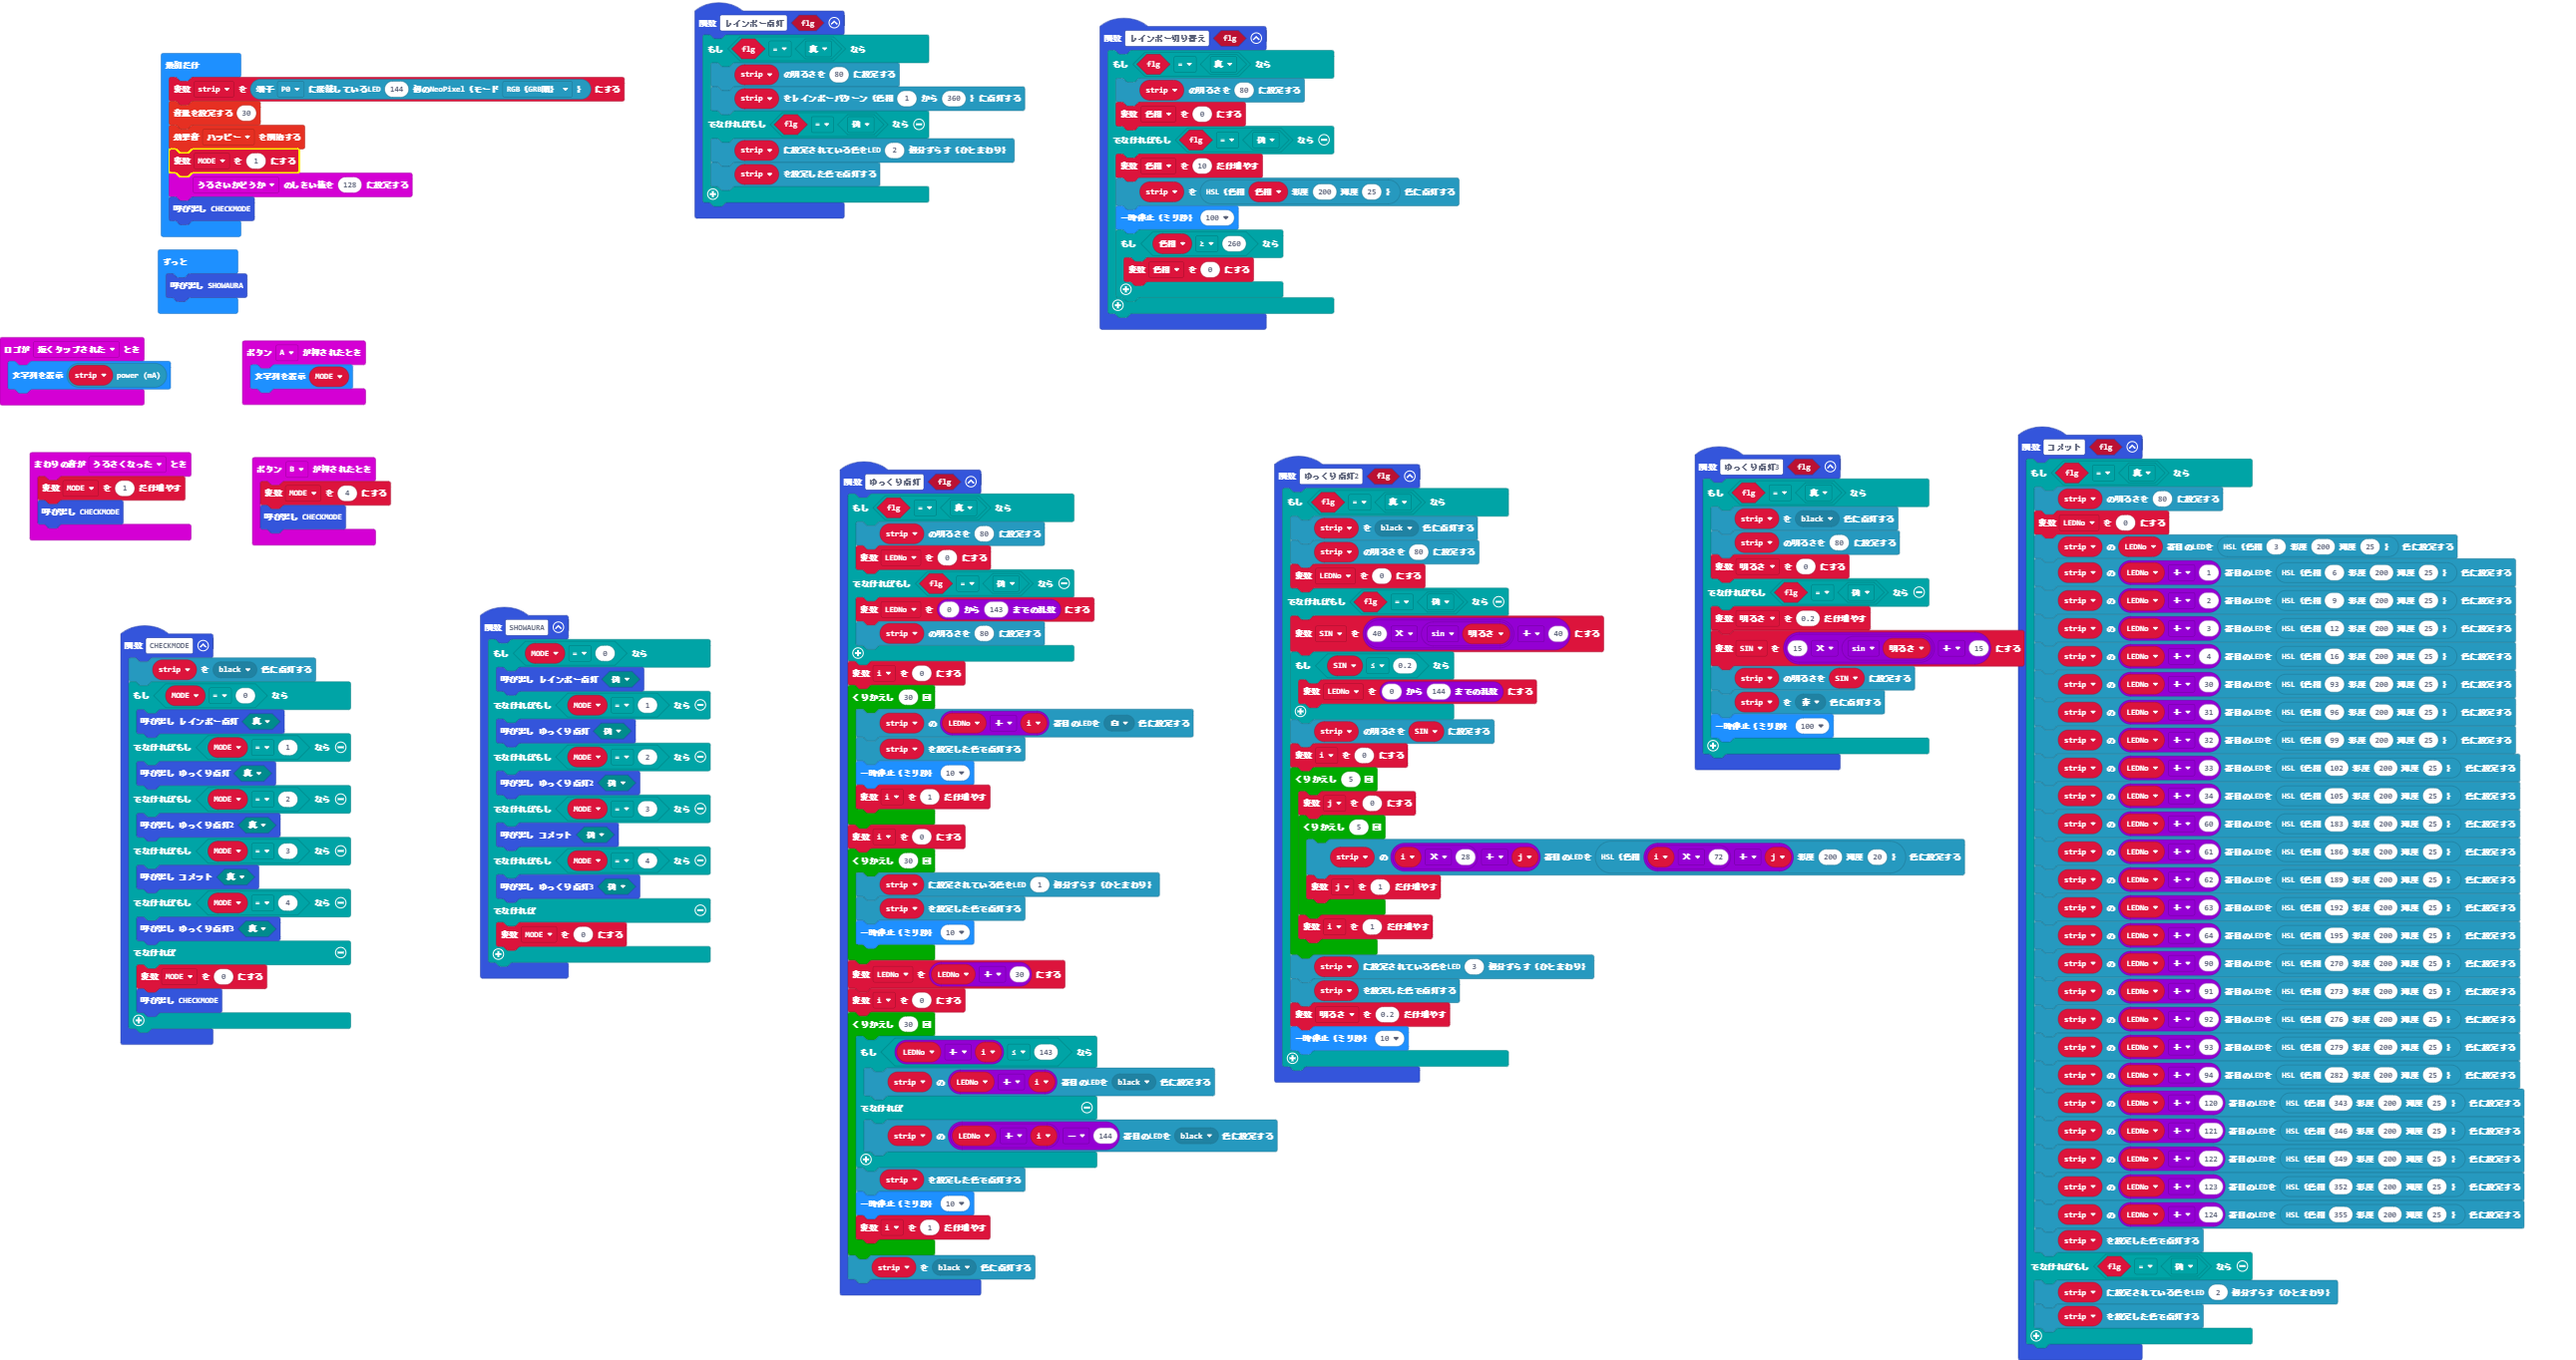
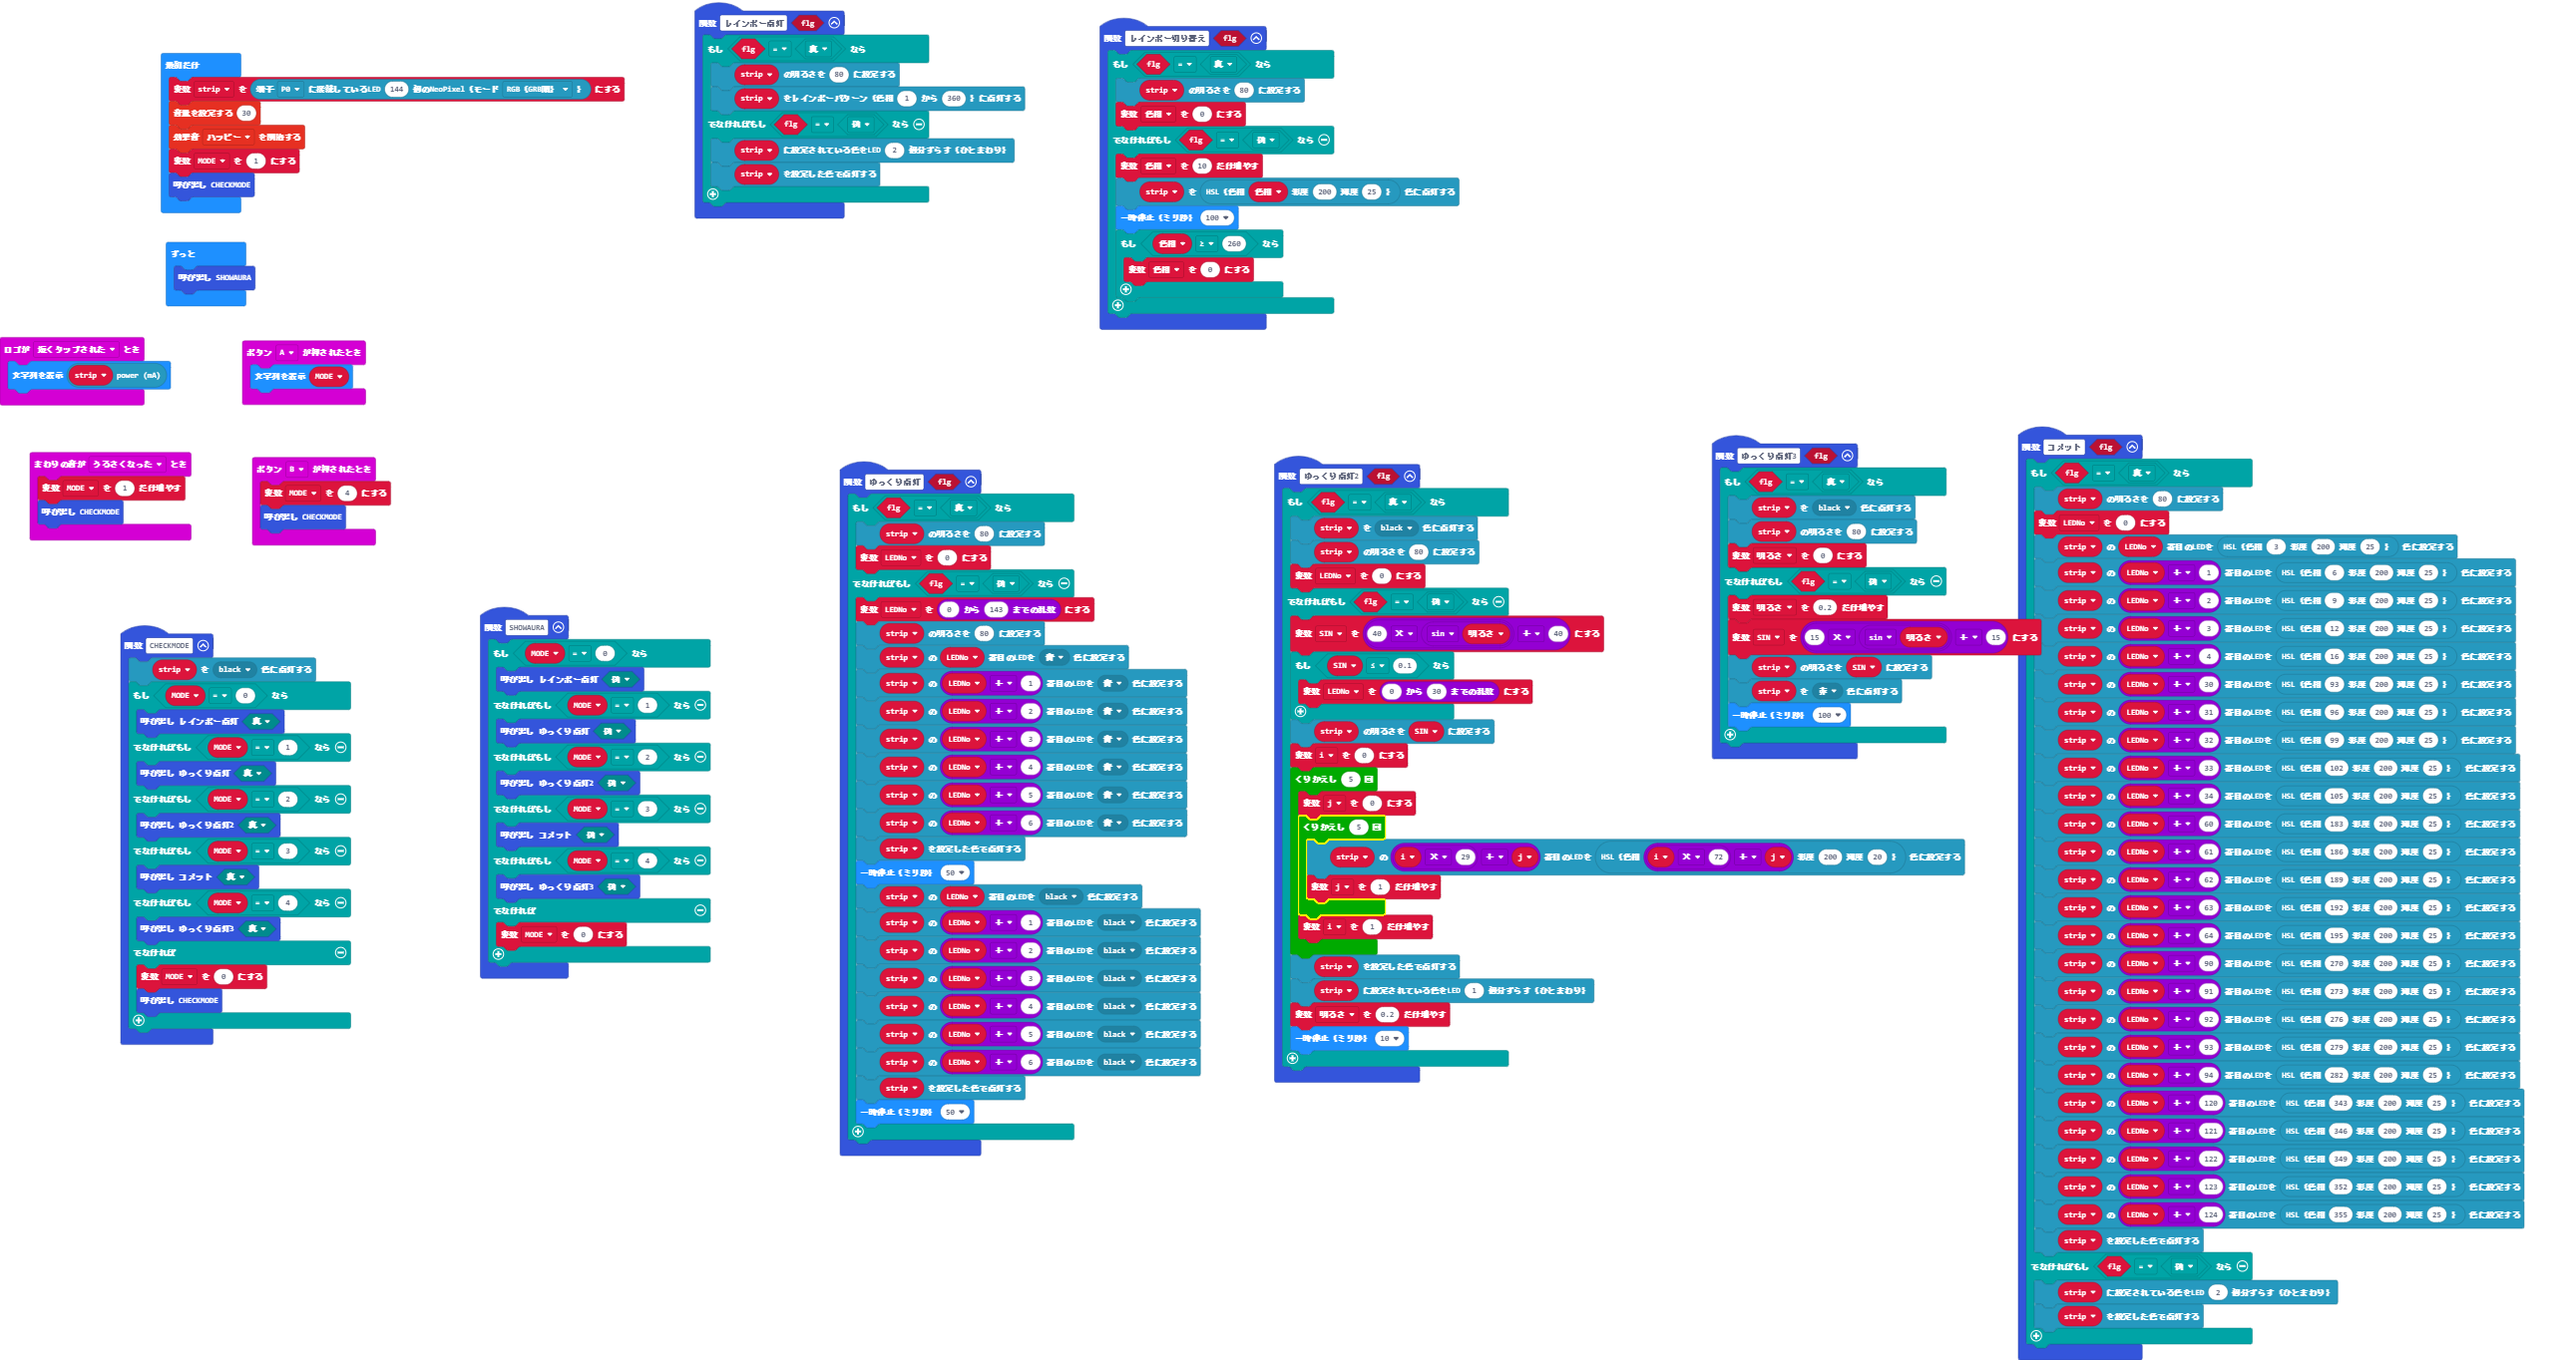
更新 main.blocks, main.ts

diff --git a/main.ts b/main.ts
@@ -5,21 +5,21 @@ function ゆっくり点灯2 (flg: boolean) {
         LEDNo = 0
     } else if (flg == false) {
         SIN = 40 * Math.sin(明るさ) + 40
-        if (SIN <= 0.2) {
-            LEDNo = randint(0, 144)
+        if (SIN <= 0.1) {
+            LEDNo = randint(0, 30)
         }
         strip.setBrightness(SIN)
         i = 0
         for (let index = 0; index < 5; index++) {
             j = 0
             for (let index = 0; index < 5; index++) {
-                strip.setPixelColor(i * 28 + j, neopixel.hsl(i * 72 + j, 200, 20))
+                strip.setPixelColor(i * 29 + j, neopixel.hsl(i * 72 + j, 200, 20))
                 j += 1
             }
             i += 1
         }
-        strip.rotate(3)
         strip.show()
+        strip.rotate(1)
         明るさ += 0.2
         basic.pause(10)
     }
@@ -48,33 +48,25 @@ function ゆっくり点灯 (flg: boolean) {
     } else if (flg == false) {
         LEDNo = randint(0, 143)
         strip.setBrightness(80)
-    }
-    i = 0
-    for (let index = 0; index < 30; index++) {
-        strip.setPixelColor(LEDNo + i, neopixel.colors(NeoPixelColors.White))
+        strip.setPixelColor(LEDNo, neopixel.colors(NeoPixelColors.Blue))
+        strip.setPixelColor(LEDNo + 1, neopixel.colors(NeoPixelColors.Blue))
+        strip.setPixelColor(LEDNo + 2, neopixel.colors(NeoPixelColors.Blue))
+        strip.setPixelColor(LEDNo + 3, neopixel.colors(NeoPixelColors.Blue))
+        strip.setPixelColor(LEDNo + 4, neopixel.colors(NeoPixelColors.Blue))
+        strip.setPixelColor(LEDNo + 5, neopixel.colors(NeoPixelColors.Blue))
+        strip.setPixelColor(LEDNo + 6, neopixel.colors(NeoPixelColors.Blue))
         strip.show()
-        basic.pause(10)
-        i += 1
-    }
-    i = 0
-    for (let index = 0; index < 30; index++) {
-        strip.rotate(1)
+        basic.pause(50)
+        strip.setPixelColor(LEDNo, neopixel.colors(NeoPixelColors.Black))
+        strip.setPixelColor(LEDNo + 1, neopixel.colors(NeoPixelColors.Black))
+        strip.setPixelColor(LEDNo + 2, neopixel.colors(NeoPixelColors.Black))
+        strip.setPixelColor(LEDNo + 3, neopixel.colors(NeoPixelColors.Black))
+        strip.setPixelColor(LEDNo + 4, neopixel.colors(NeoPixelColors.Black))
+        strip.setPixelColor(LEDNo + 5, neopixel.colors(NeoPixelColors.Black))
+        strip.setPixelColor(LEDNo + 6, neopixel.colors(NeoPixelColors.Black))
         strip.show()
-        basic.pause(10)
+        basic.pause(50)
     }
-    LEDNo = LEDNo + 30
-    i = 0
-    for (let index = 0; index < 30; index++) {
-        if (LEDNo + i <= 143) {
-            strip.setPixelColor(LEDNo + i, neopixel.colors(NeoPixelColors.Black))
-        } else {
-            strip.setPixelColor(LEDNo + i - 144, neopixel.colors(NeoPixelColors.Black))
-        }
-        strip.show()
-        basic.pause(10)
-        i += 1
-    }
-    strip.showColor(neopixel.colors(NeoPixelColors.Black))
 }
 input.onButtonPressed(Button.A, function () {
     basic.showString("" + (MODE))
@@ -187,7 +179,6 @@ strip = neopixel.create(DigitalPin.P0, 144, NeoPixelMode.RGB)
 music.setVolume(30)
 soundExpression.happy.play()
 MODE = 1
-input.setSoundThreshold(SoundThreshold.Loud, 128)
 CHECKMODE()
 basic.forever(function () {
     SHOWAURA()
